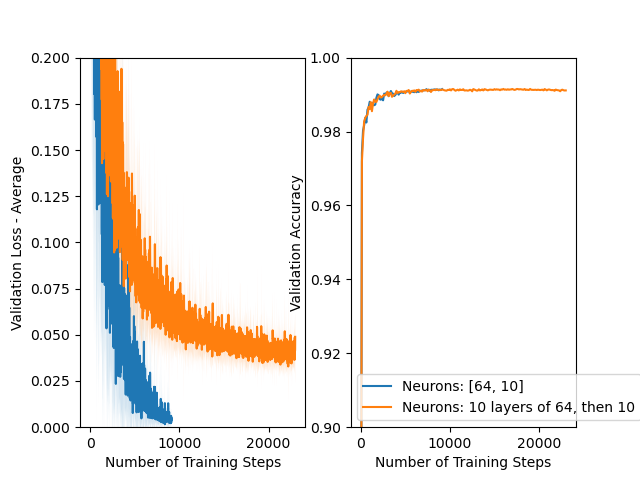
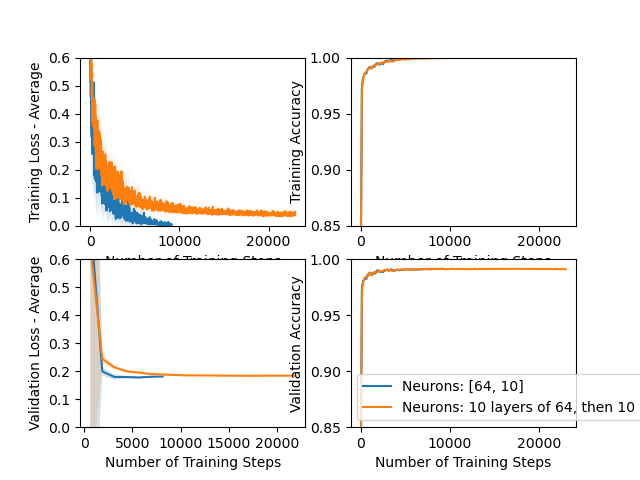
A2: task 4: Text answers and comments

diff --git a/assignment2/task3.py b/assignment2/task3.py
@@ -15,7 +15,7 @@ if __name__ == "__main__":
     neurons_per_layer = [64, 10]
     momentum_gamma = .9  # Task 3 hyperparameter
     shuffle_data = True
-
+    
     use_improved_sigmoid = False
     use_improved_weight_init = False
     use_momentum = False
@@ -83,19 +83,19 @@ if __name__ == "__main__":
         num_epochs)
 
     plt.subplot(1, 2, 1)
-    utils.plot_loss(train_history["loss"],
+    utils.plot_loss(val_history["loss"],
                     "Task 2 Model", npoints_to_average=10)
     utils.plot_loss(
-        train_history_improved_weight_init["loss"], "Task 3 - Improved weight init", npoints_to_average=10)
+        val_history_improved_weight_init["loss"], "Task 3 - Improved weight init", npoints_to_average=10)
     utils.plot_loss(
-        train_history_improved_sigmoid["loss"], "Task 3 - Improved weight init+sigmoid", npoints_to_average=10)
+        val_history_improved_sigmoid["loss"], "Task 3 - Improved weight init+sigmoid", npoints_to_average=10)
     utils.plot_loss(
-        train_history_use_momentum["loss"], "Task 3 - Improved weight init+sigmoid+momentum", npoints_to_average=10)
-    plt.ylim([0, .2])
+        val_history_use_momentum["loss"], "Task 3 - Improved weight init+sigmoid+momentum", npoints_to_average=10)
+    plt.ylim([0, .6])
     plt.xlabel("Number of Training Steps")
     plt.ylabel("Validation Loss - Average")
     plt.subplot(1, 2, 2)
-    plt.ylim([0.9,  1.0])
+    plt.ylim([0.85, 1.0])
     utils.plot_loss(val_history["accuracy"], "Task 2 Model")
     utils.plot_loss(
         val_history_improved_weight_init["accuracy"], "Task 3 - Improved weight init")
@@ -131,7 +131,7 @@ if __name__ == "__main__":
     use_improved_weight_init = True
     use_momentum = True
     learning_rate = 0.02
-    """ 
+    """
     #Task 4 a and b
     model_64 = SoftmaxModel(
         neurons_per_layer,
@@ -158,15 +158,15 @@ if __name__ == "__main__":
 
     plt.subplot(1, 2, 1)
     utils.plot_loss(
-        train_64_history["loss"], "64 hidden layer neurons", npoints_to_average=10)
+        val_64_history["loss"], "64 hidden layer neurons", npoints_to_average=10)
     utils.plot_loss(
-        train_32_history["loss"], "32 hidden layer neurons", npoints_to_average=10)
-    plt.ylim([0, .2])
+        val_32_history["loss"], "32 hidden layer neurons", npoints_to_average=10)
+    plt.ylim([0, .6])
     # plt.legend()
     plt.xlabel("Number of Training Steps")
     plt.ylabel("Validation Loss - Average")
     plt.subplot(1, 2, 2)
-    plt.ylim([0.9,  1.0])
+    plt.ylim([0.85,  1.0])
     utils.plot_loss(val_64_history["accuracy"], "64 hidden layer neurons")
     utils.plot_loss(val_32_history["accuracy"], "32 hidden layer neurons")
     plt.xlabel("Number of Training Steps")
@@ -190,15 +190,15 @@ if __name__ == "__main__":
 
     plt.subplot(1, 2, 1)
     utils.plot_loss(
-        train_64_history["loss"], "64 hidden layer neurons", npoints_to_average=10)
+        val_64_history["loss"], "64 hidden layer neurons", npoints_to_average=10)
     utils.plot_loss(
-        train_128_history["loss"], "128 hidden layer neurons", npoints_to_average=10)
-    plt.ylim([0, .2])
+        val_128_history["loss"], "128 hidden layer neurons", npoints_to_average=10)
+    plt.ylim([0, .6])
     plt.xlabel("Number of Training Steps")
     plt.ylabel("Validation Loss - Average")
     # plt.legend()
     plt.subplot(1, 2, 2)
-    plt.ylim([0.9,  1.0])
+    plt.ylim([0.85, 1.0])
     utils.plot_loss(val_64_history["accuracy"], "64 hidden layer neurons")
     utils.plot_loss(val_128_history["accuracy"], "128 hidden layer neurons")
     plt.xlabel("Number of Training Steps")
@@ -218,7 +218,7 @@ if __name__ == "__main__":
         X_train, Y_train, X_val, Y_val,
     )
     train_history, val_history = trainer.train(num_epochs)
-    """
+    
     # Task 4d two-layer
     neurons_per_layer = [60, 60, 10]
     model_two_hl = SoftmaxModel(
@@ -232,26 +232,44 @@ if __name__ == "__main__":
     )
     train_history_two_hl, val_history_two_hl = trainer_two_hl.train(num_epochs)
 
-    plt.subplot(1, 2, 1)
+    # TRAINING PLOTS
+    plt.subplot(2, 2, 1)
     utils.plot_loss(train_history["loss"],
                     "Neurons: [64, 10]", npoints_to_average=10)
     utils.plot_loss(
-        train_history_two_hl["loss"], "Neurons: [64, 64, 10]", npoints_to_average=10)
-    plt.ylim([0, .2])
+        train_history_two_hl["loss"], "Neurons: [60, 60, 10]", npoints_to_average=10)
+    plt.ylim([0, .6])
+    plt.xlabel("Number of Training Steps")
+    plt.ylabel("Training Loss - Average")
+    plt.subplot(2, 2, 2)
+    plt.ylim([0.85, 1.0])
+    utils.plot_loss(train_history["accuracy"], "Neurons: [64, 10]")
+    utils.plot_loss(
+        train_history_two_hl["accuracy"], "Neurons: [60, 60, 10]")
+    plt.xlabel("Number of Training Steps")
+    plt.ylabel("Training Accuracy")
+
+    # VALIDATION PLOTS
+    plt.subplot(2, 2, 3)
+    utils.plot_loss(val_history["loss"],
+                    "Neurons: [64, 10]", npoints_to_average=10)
+    utils.plot_loss(
+        val_history_two_hl["loss"], "Neurons: [60, 60, 10]", npoints_to_average=10)
+    plt.ylim([0, .6])
     plt.xlabel("Number of Training Steps")
     plt.ylabel("Validation Loss - Average")
-    plt.subplot(1, 2, 2)
-    plt.ylim([0.9,  1.0])
+    plt.subplot(2, 2, 4)
+    plt.ylim([0.85, 1.0])
     utils.plot_loss(val_history["accuracy"], "Neurons: [64, 10]")
     utils.plot_loss(
-        val_history_two_hl["accuracy"], "Neurons: [64, 64, 10]")
+        val_history_two_hl["accuracy"], "Neurons: [60, 60, 10]")
     plt.xlabel("Number of Training Steps")
     plt.ylabel("Validation Accuracy")
     plt.legend()
     plt.savefig("task4d.png")
-    """
+    plt.show()
+    
     # Task 4e
-    # neurons_per_layer = [64 for i in range(10)].append(10)
     neurons_per_layer = [64]*10
     neurons_per_layer.append(10)
     model_ten_hl = SoftmaxModel(
@@ -260,7 +278,7 @@ if __name__ == "__main__":
         use_improved_weight_init)
     
     # model_ten_hl.print_num_parameters()
-    
+
     trainer_ten_hl = SoftmaxTrainer(
         momentum_gamma, use_momentum,
         model_ten_hl, learning_rate, batch_size, shuffle_data,
@@ -268,16 +286,34 @@ if __name__ == "__main__":
     )
     train_history_ten_hl, val_history_ten_hl = trainer_ten_hl.train(num_epochs)
 
-    plt.subplot(1, 2, 1)
+    # TRAINING PLOTS
+    plt.subplot(2, 2, 1)
     utils.plot_loss(train_history["loss"],
                     "Neurons: [64, 10]", npoints_to_average=10)
     utils.plot_loss(
         train_history_ten_hl["loss"], "Neurons: 10 layers of 64, then 10", npoints_to_average=10)
-    plt.ylim([0, .2])
+    plt.ylim([0, .6])
+    plt.xlabel("Number of Training Steps")
+    plt.ylabel("Training Loss - Average")
+    plt.subplot(2, 2, 2)
+    plt.ylim([0.85, 1.0])
+    utils.plot_loss(train_history["accuracy"], "Neurons: [64, 10]")
+    utils.plot_loss(
+        train_history_ten_hl["accuracy"], "Neurons: 10 layers of 64, then 10")
+    plt.xlabel("Number of Training Steps")
+    plt.ylabel("Training Accuracy")
+    
+    # VALIDATION PLOTS
+    plt.subplot(2, 2, 3)
+    utils.plot_loss(val_history["loss"],
+                    "Neurons: [64, 10]", npoints_to_average=10)
+    utils.plot_loss(
+        val_history_ten_hl["loss"], "Neurons: 10 layers of 64, then 10", npoints_to_average=10)
+    plt.ylim([0, .6])
     plt.xlabel("Number of Training Steps")
     plt.ylabel("Validation Loss - Average")
-    plt.subplot(1, 2, 2)
-    plt.ylim([0.9,  1.0])
+    plt.subplot(2, 2, 4)
+    plt.ylim([0.85, 1.0])
     utils.plot_loss(val_history["accuracy"], "Neurons: [64, 10]")
     utils.plot_loss(
         val_history_ten_hl["accuracy"], "Neurons: 10 layers of 64, then 10")
@@ -285,3 +321,4 @@ if __name__ == "__main__":
     plt.ylabel("Validation Accuracy")
     plt.legend()
     plt.savefig("task4e.png")
+    plt.show()

diff --git a/assignment2/task2a.py b/assignment2/task2a.py
@@ -46,12 +46,13 @@ def improved_sigmoid(z: np.ndarray) -> np.ndarray:
 
 def dimproved_sigmoid(a: np.ndarray) -> np.ndarray:
     """
+    derivative of tanh(x) is (1-(tanh(x))**2)
     Since we will be inputting a into the function,
     we have a=improved_sigmoid(z). The derivative
     becomes the following:
     """
 
-    return (2.0/3.0)*(1.7159- (1/1.7159)*a**2)
+    return 1.7159*(2.0/3.0)*(1 - ((1/1.7159)*a)**2)
 
 def sigmoid(z: np.ndarray) -> np.ndarray:
     return 1.0/(1.0+np.exp(-z))
@@ -156,13 +157,14 @@ class SoftmaxModel:
 
         batch_size = X.shape[0]
         # Hint 2 from task 1a
-
         delta = -(targets - outputs)
 
+        # Eq1 from A2 
         output_grad: np.ndarray = delta.T@self.hidden_layer_output[-1] / batch_size
         self.grads[-1] = output_grad.T
 
         for i in range(len(self.hidden_layer_output)-1, 0, -1):
+            # delta update is from A2 task 1a
             if self.use_improved_sigmoid:
                 delta = dimproved_sigmoid(
                     self.hidden_layer_output[i])*(delta@self.ws[i+1].T)
@@ -172,6 +174,7 @@ class SoftmaxModel:
             self.grads[i] = self.hidden_layer_output[i-1].T@delta/batch_size
 
         # First layer:
+        # (This could probably be incorporated into the loop..)
         if self.use_improved_sigmoid:
             delta = dimproved_sigmoid(
                 self.hidden_layer_output[0])*(delta@self.ws[1].T)
